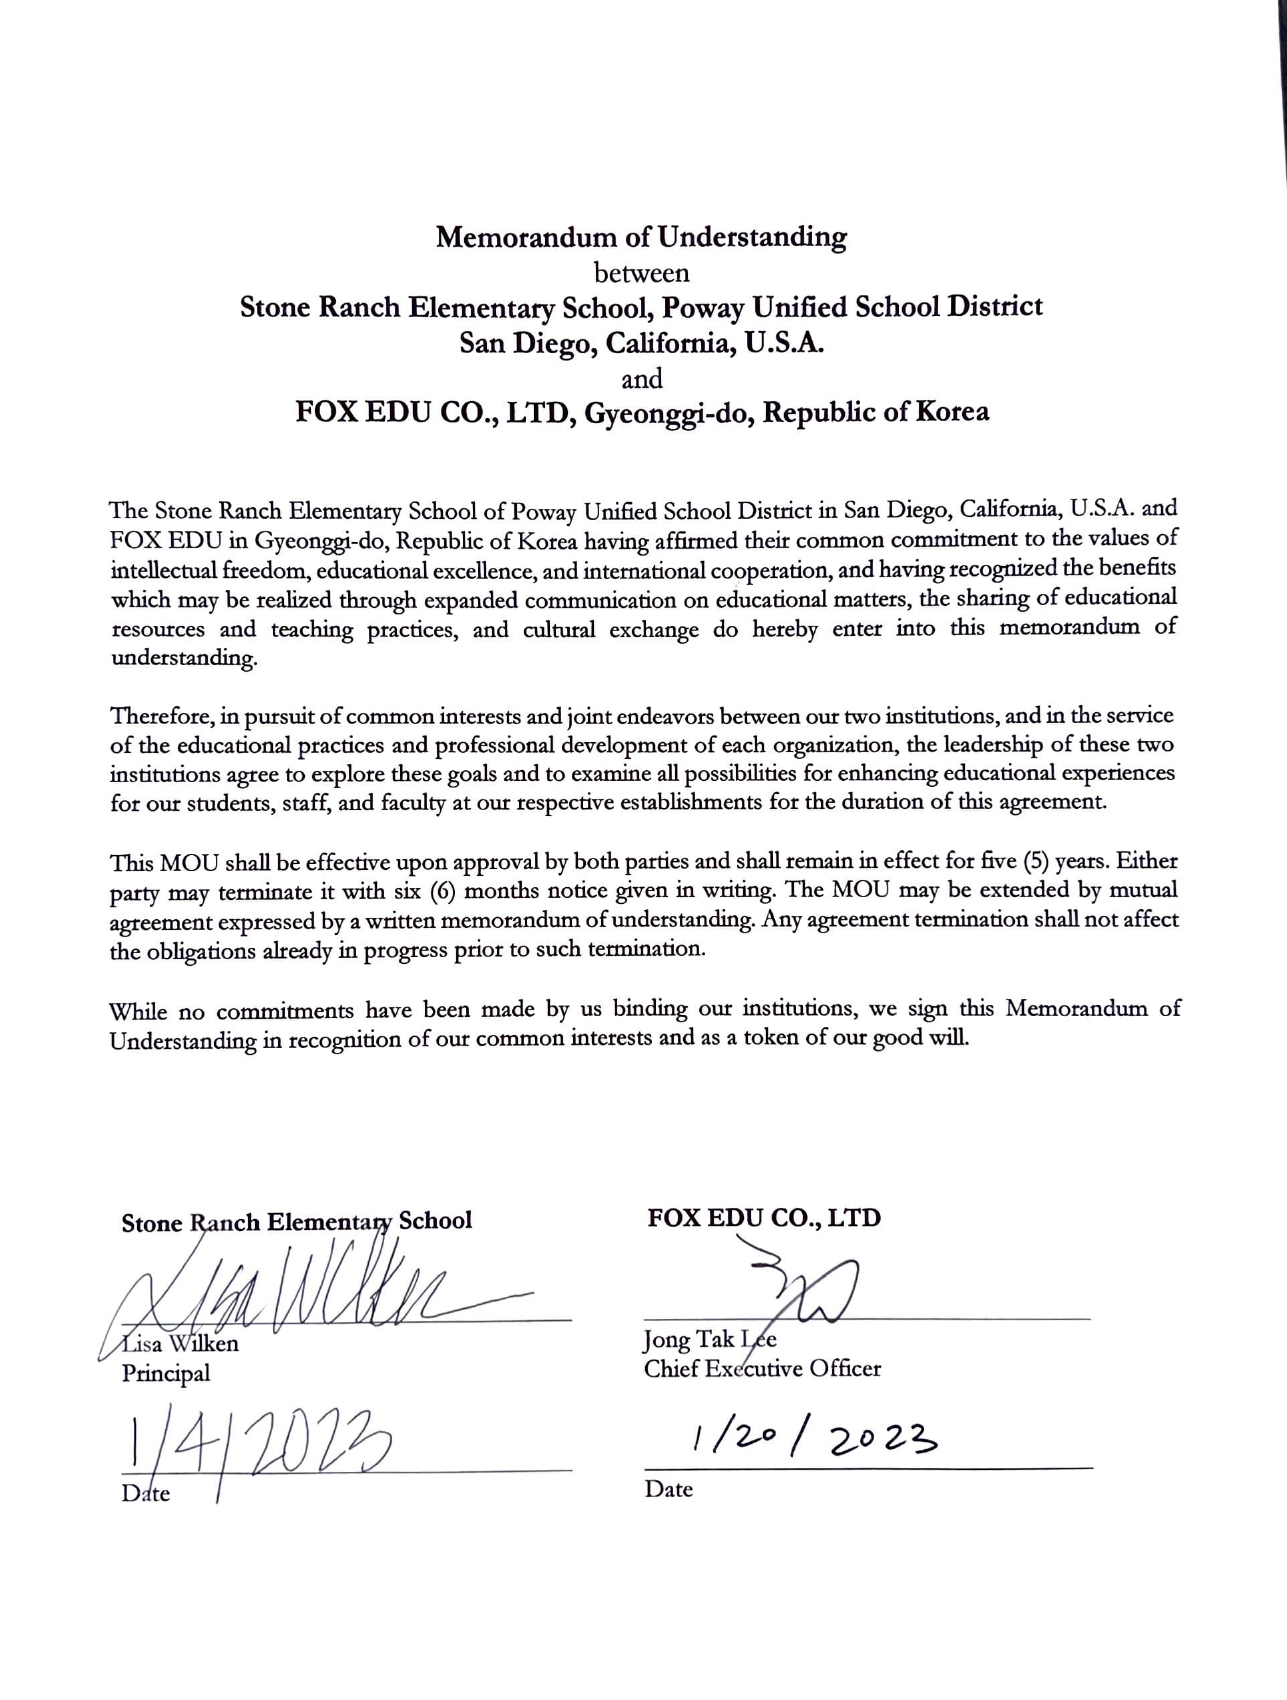
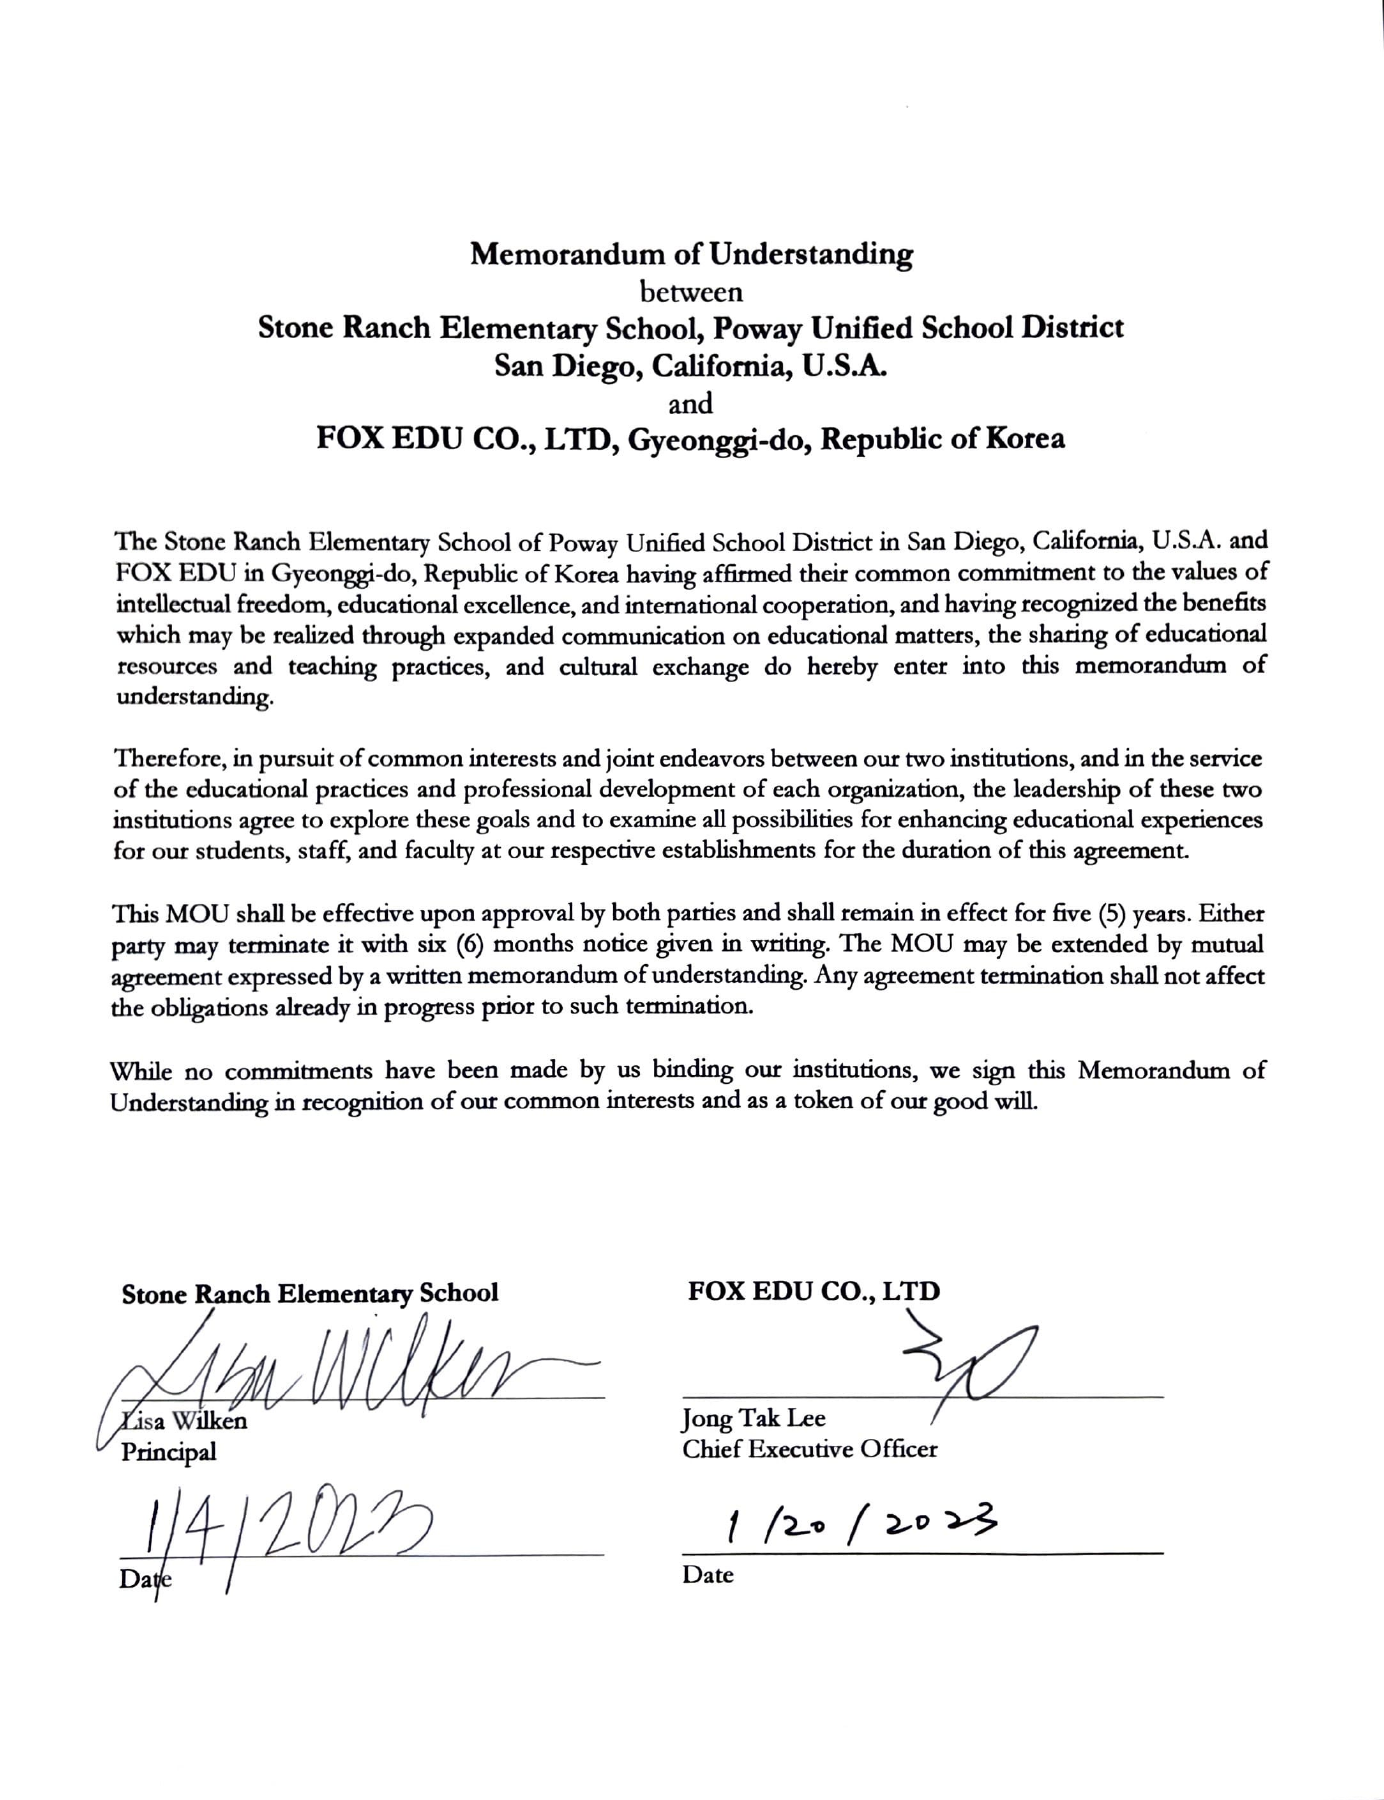
Add verified cooperation photos and clarify agreement parties

diff --git a/camp-global/cooperation.html b/camp-global/cooperation.html
@@ -22,7 +22,7 @@
 <meta name="twitter:card" content="summary_large_image">
 <link rel="icon" href="assets/fox-lc.png">
 <link rel="stylesheet" href="site.css?v=20261110-title">
-<link rel="stylesheet" href="history.css?v=20261116-cooperation">
+<link rel="stylesheet" href="history.css?v=20261116-cooperation-photos">
 <script src="site.js?v=20261111-inquiry" defer>
 </script>
 <script src="history.js" defer>
@@ -57,35 +57,42 @@
 </div></nav>
 <div class="wrap history-content">
 <article class="history-year" id="cooperation-2023" aria-labelledby="cooperation-title-2023">
-<div class="year-heading"><h2 id="cooperation-title-2023">2023</h2><p>미국 학교·대학과 교육 협약</p></div>
+<div class="year-heading"><h2 id="cooperation-title-2023">2023</h2><p>교육 협약과 공교육 교류</p></div>
 <div class="year-body">
 <section class="history-entry" id="sres-agreement"><p class="entry-country">교육 협약 · 1월</p>
-<div class="entry-heading"><h3>스톤랜치 초등학교와 교육 교류 협약</h3><p>폭스에듀 · 스톤랜치 초등학교(SRES)</p></div>
+<div class="entry-heading"><h3>폭스에듀–스톤랜치 초등학교<br>교육 교류 협약</h3></div>
 <p class="body-copy">교육자료와 교육 경험을 공유하고, 문화 교류를 이어가기 위한 협약을 맺었습니다.</p>
-<details class="details agreement-document"><summary>협약서 보기</summary><div class="details-content">
-<figure><a href="assets/cooperation/sres-mou-2023.png" target="_blank" rel="noopener" aria-label="스톤랜치 협약서 크게 보기 (새 창)"><img src="assets/cooperation/sres-mou-2023.png" width="1287" height="1700" alt="폭스에듀와 스톤랜치 초등학교의 2023년 1월 서명 협약서" loading="lazy"></a><figcaption>학교 측 1월 4일 · 폭스에듀 1월 20일 서명</figcaption></figure>
-<a class="text-link" href="assets/cooperation/sres-mou-2023.png" target="_blank" rel="noopener">협약서 크게 보기 ↗</a></div></details>
+<figure class="agreement-document"><a href="assets/cooperation/sres-mou-2023.png?v=20261116-original" target="_blank" rel="noopener" aria-label="폭스에듀–스톤랜치 초등학교 협약서 크게 보기 (새 창)"><img src="assets/cooperation/sres-mou-2023.png?v=20261116-original" width="1384" height="1800" alt="폭스에듀와 스톤랜치 초등학교의 2023년 1월 서명 협약서" loading="lazy"></a><figcaption>학교 측 1월 4일 · 폭스에듀 1월 20일 서명<br><a class="text-link" href="assets/cooperation/sres-mou-2023.png?v=20261116-original" target="_blank" rel="noopener">협약서 크게 보기 ↗</a></figcaption></figure>
 </section>
 <section class="history-entry" id="sfsu-agreement"><p class="entry-country">교육 협약 · 12월</p>
-<div class="entry-heading"><h3>샌프란시스코 주립대학교와 교육·연구 협약</h3><p>폭스에듀 · 샌프란시스코 주립대학교(SFSU)</p></div>
+<div class="entry-heading"><h3>폭스에듀–샌프란시스코 주립대학교<br>교육·연구 협약</h3></div>
 <p class="body-copy">교육·연구·문화 교류에 필요한 자료를 나누고, 학생과 교육자의 교육·연구 협력 방안을 함께 모색하기로 했습니다.</p>
-<details class="details agreement-document"><summary>협약서 보기</summary><div class="details-content">
-<figure><a href="assets/cooperation/sfsu-mou-2023.png" target="_blank" rel="noopener" aria-label="SFSU 협약서 크게 보기 (새 창)"><img src="assets/cooperation/sfsu-mou-2023.png" width="749" height="1059" alt="폭스에듀와 샌프란시스코 주립대학교의 2023년 12월 서명 협약서" loading="lazy"></a><figcaption>대학 측 12월 11일 · 폭스에듀 12월 18일 서명</figcaption></figure>
-<a class="text-link" href="assets/cooperation/sfsu-mou-2023.png" target="_blank" rel="noopener">협약서 크게 보기 ↗</a></div></details>
+<figure class="agreement-document"><a href="assets/cooperation/sfsu-mou-2023.png?v=20261116-original" target="_blank" rel="noopener" aria-label="폭스에듀–샌프란시스코 주립대학교 협약서 크게 보기 (새 창)"><img src="assets/cooperation/sfsu-mou-2023.png?v=20261116-original" width="1273" height="1800" alt="폭스에듀와 샌프란시스코 주립대학교의 2023년 12월 서명 협약서" loading="lazy"></a><figcaption>대학 측 12월 11일 · 폭스에듀 12월 18일 서명<br><a class="text-link" href="assets/cooperation/sfsu-mou-2023.png?v=20261116-original" target="_blank" rel="noopener">협약서 크게 보기 ↗</a></figcaption></figure>
 </section>
 <section class="history-entry entry-wide education-context" id="gyeongnam-exchange"><p class="entry-country">관련 공교육 교류 · 6월 / 12월</p>
 <div class="entry-heading"><h3>경남교육청과 포웨이 통합교육구의 교육 협력</h3><p>경상남도교육청 · 미국 포웨이 통합교육구(PUSD)</p></div>
 <p class="body-copy">두 기관은 6월 업무 협력 의향서를 체결하고, 12월 6일 문화·언어 교류와 사회정서학습을 위한 협의를 이어갔습니다. 스톤랜치 초등학교 교장은 포웨이 통합교육구의 위임 대표로, SFSU 교수진은 협의 참석자로 함께했습니다.</p>
-<a class="text-link" href="https://www.newsgn.com/news/articleView.html?idxno=344618" target="_blank" rel="noopener">뉴스경남 기사 보기 ↗</a>
+<a class="text-link" href="https://www.gne.go.kr/user/bbs/BD_selectBbs.do?q_bbsSn=1350&amp;q_bbsDocNo=1608922" target="_blank" rel="noopener">6월 의향서 체결 · 경남교육청 보도자료 ↗</a><br>
+<a class="text-link" href="https://www.newsgn.com/news/articleView.html?idxno=344618" target="_blank" rel="noopener">12월 교육 협의 · 뉴스경남 기사 ↗</a>
 </section>
 </div></article>
 <article class="history-year" id="cooperation-2024" aria-labelledby="cooperation-title-2024">
-<div class="year-heading"><h2 id="cooperation-title-2024">2024</h2><p>한국 학교 방문과 국제 SEL 연구</p></div><div class="year-body">
-<section class="history-entry" id="gwanpyeong-exchange"><p class="entry-country">학교 교류 · 6월 27일</p><div class="entry-heading"><h3>관평초등학교에서 이어진 교류</h3></div><p class="body-copy">한국 교류 캠프 일정으로 미국 스톤랜치 초등학교 학생들이 관평초등학교를 방문했습니다.</p></section>
-<section class="history-entry" id="growx-research"><p class="entry-country">교육 연구</p><div class="entry-heading"><h3>Grow X의 국제 SEL 교육 사례</h3></div><p class="body-copy">Grow X Education은 한국·미국 학생이 함께한 Global Academy와 한국 학교에서 진행한 SEL 교육 사례를 소개했습니다. 학교·대학·가정이 함께한 교육 경험은 국제 SEL 학술지의 연구로도 발표됐습니다.</p><a class="text-link" href="https://www.growxeducation.com/news/international-community-based-approach" target="_blank" rel="noopener">Grow X의 교육 사례 보기 ↗</a><br><a class="text-link" href="https://doi.org/10.1016/j.sel.2024.100063" target="_blank" rel="noopener">연구 논문 보기 ↗</a></section>
+<div class="year-heading"><h2 id="cooperation-title-2024">2024</h2><p>학교 간 협약과 국제 SEL 연구 발표</p></div><div class="year-body">
+<section class="history-entry" id="gwanpyeong-exchange"><p class="entry-country">학교 간 협약·교류 · 6월 27일</p>
+<div class="entry-heading"><h3>대전관평초등학교–스톤랜치 초등학교<br>교류 협약</h3></div>
+<p class="body-copy">두 학교가 교류 협약을 맺었습니다.<br>같은 날 한국 교류 캠프에 참여한 스톤랜치 학생들이 관평초등학교를 방문했습니다.</p>
+<figure><img src="assets/cooperation/gwanpyeong-sres-mou-2024.webp" width="1600" height="1067" alt="관평초등학교와 스톤랜치 초등학교의 서명 협약서를 펼쳐 든 관계자들의 기념사진" loading="lazy"><figcaption>2024년 6월 27일 · 관평초등학교–스톤랜치 초등학교 협약식</figcaption></figure>
+</section>
+<section class="history-entry" id="growx-research"><p class="entry-country">교육 연구 발표 · 10월 1~4일</p>
+<div class="entry-heading"><h3>국제 심포지엄에서 발표한<br>SEL 교육 사례</h3><p>Grow X Education · mEducation Alliance Symposium</p></div>
+<p class="body-copy">Grow X Education은 국제 심포지엄에서 사회정서학습(SEL) 연구를 발표했습니다. 한국·미국 학생의 교류와 한국 학교에서 진행한 SEL 교육 사례는 국제 학술지의 연구로도 소개됐습니다.</p>
+<figure><img src="assets/cooperation/growx-sel-symposium-2024.webp" width="1766" height="482" alt="2024 mEducation Alliance Symposium의 행사장과 SEL 연구 발표·전시 장면" loading="lazy"><figcaption>2024 mEducation Alliance Symposium · Grow X SEL 연구 발표<br>사진: Grow X Education</figcaption></figure>
+<a class="text-link" href="https://www.growxeducation.com/news/meducation-alliance-symposium-2024" target="_blank" rel="noopener">연구 발표 기록 보기 ↗</a><br><a class="text-link" href="https://doi.org/10.1016/j.sel.2024.100063" target="_blank" rel="noopener">연구 논문 보기 ↗</a></section>
 </div></article>
 <article class="history-year" id="cooperation-2025" aria-labelledby="cooperation-title-2025"><div class="year-heading"><h2 id="cooperation-title-2025">2025</h2><p>한국 학교와의 교류</p></div><div class="year-body">
-<section class="history-entry entry-wide" id="cheongyang-exchange"><p class="entry-country">학교 교류</p><div class="entry-heading"><h3>청양초등학교와 함께한 교류</h3></div><p class="body-copy">글로벌캠프의 교류가 청양초등학교에서도 이어졌습니다.</p></section>
+<section class="history-entry entry-wide" id="cheongyang-exchange"><p class="entry-country">학교 교류 · 6월 25일</p><div class="entry-heading"><h3>청양초등학교에서 만난 한국·미국 학생들</h3></div><p class="body-copy">청양초등학교에서 한국·미국 학생 교류를 진행했습니다.</p>
+<figure><img src="assets/cooperation/cheongyang-exchange-2025.webp" width="1600" height="1200" alt="청양초등학교 교표 아래 체육관에 모인 한국·미국 학생들과 인솔진" loading="lazy"><figcaption>2025년 6월 25일 · 청양초등학교 교류</figcaption></figure>
+</section>
 </div></article>
 <article class="history-year" id="cooperation-2026" aria-labelledby="cooperation-title-2026"><div class="year-heading"><h2 id="cooperation-title-2026">2026</h2><p>학교 교류와 영어 활동</p></div><div class="year-body">
 <section class="history-entry" id="solbat-exchange"><p class="entry-country">학교 교류</p><div class="entry-heading"><h3>솔밭초등학교와 함께한 교류</h3></div><p class="body-copy">한국 교류 캠프에서 솔밭초등학교와의 교류를 진행했습니다.</p></section>

diff --git a/camp-global/history.css b/camp-global/history.css
@@ -125,6 +125,8 @@
 @media(max-width:360px){.archive-preview{grid-template-columns:92px 1fr;gap:14px}}
 
 .archive-switch a[aria-current="page"]{color:var(--blue);border-bottom-color:var(--blue)}
-.cooperation-main .agreement-document figure{max-width:420px;margin-inline:auto}
-.cooperation-main .agreement-document img{border:1px solid var(--line);border-radius:4px}
+.cooperation-main .agreement-document{text-align:center}
+.cooperation-main .agreement-document img{width:auto;max-width:100%;height:300px;object-fit:contain;margin-inline:auto;border:1px solid var(--line);border-radius:4px}
+.cooperation-main .agreement-document .text-link{display:inline-block;min-height:44px;padding-block:10px}
+.cooperation-main #cheongyang-exchange figure{max-width:880px;margin-inline:auto}
 .cooperation-main .education-context{background:var(--mist)}
